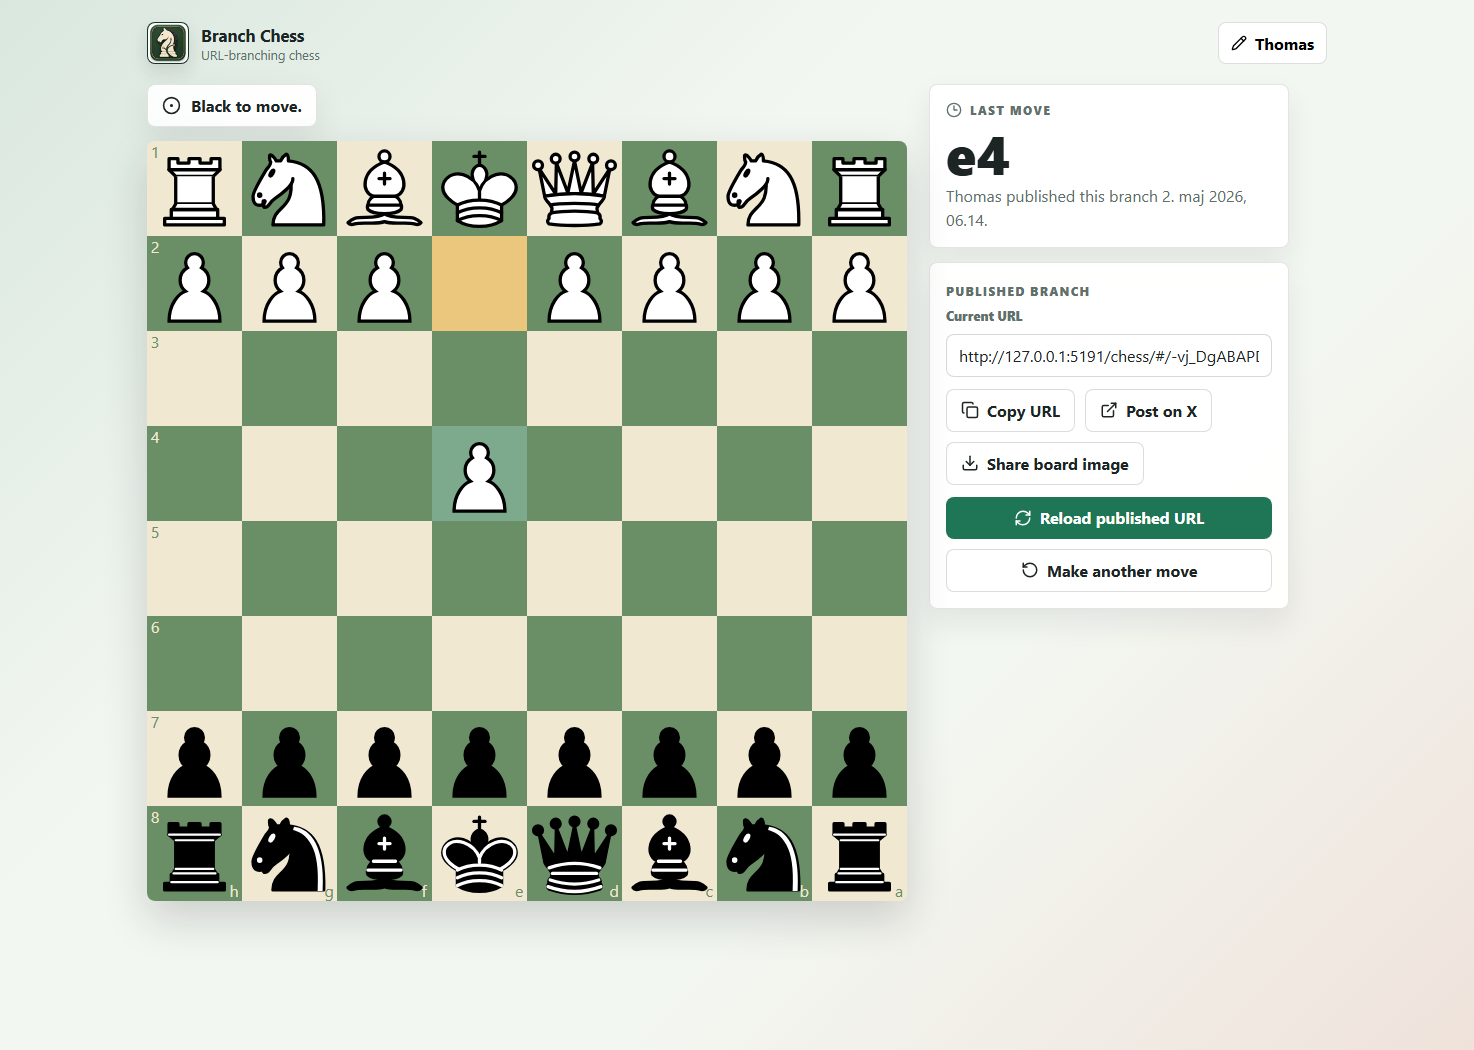
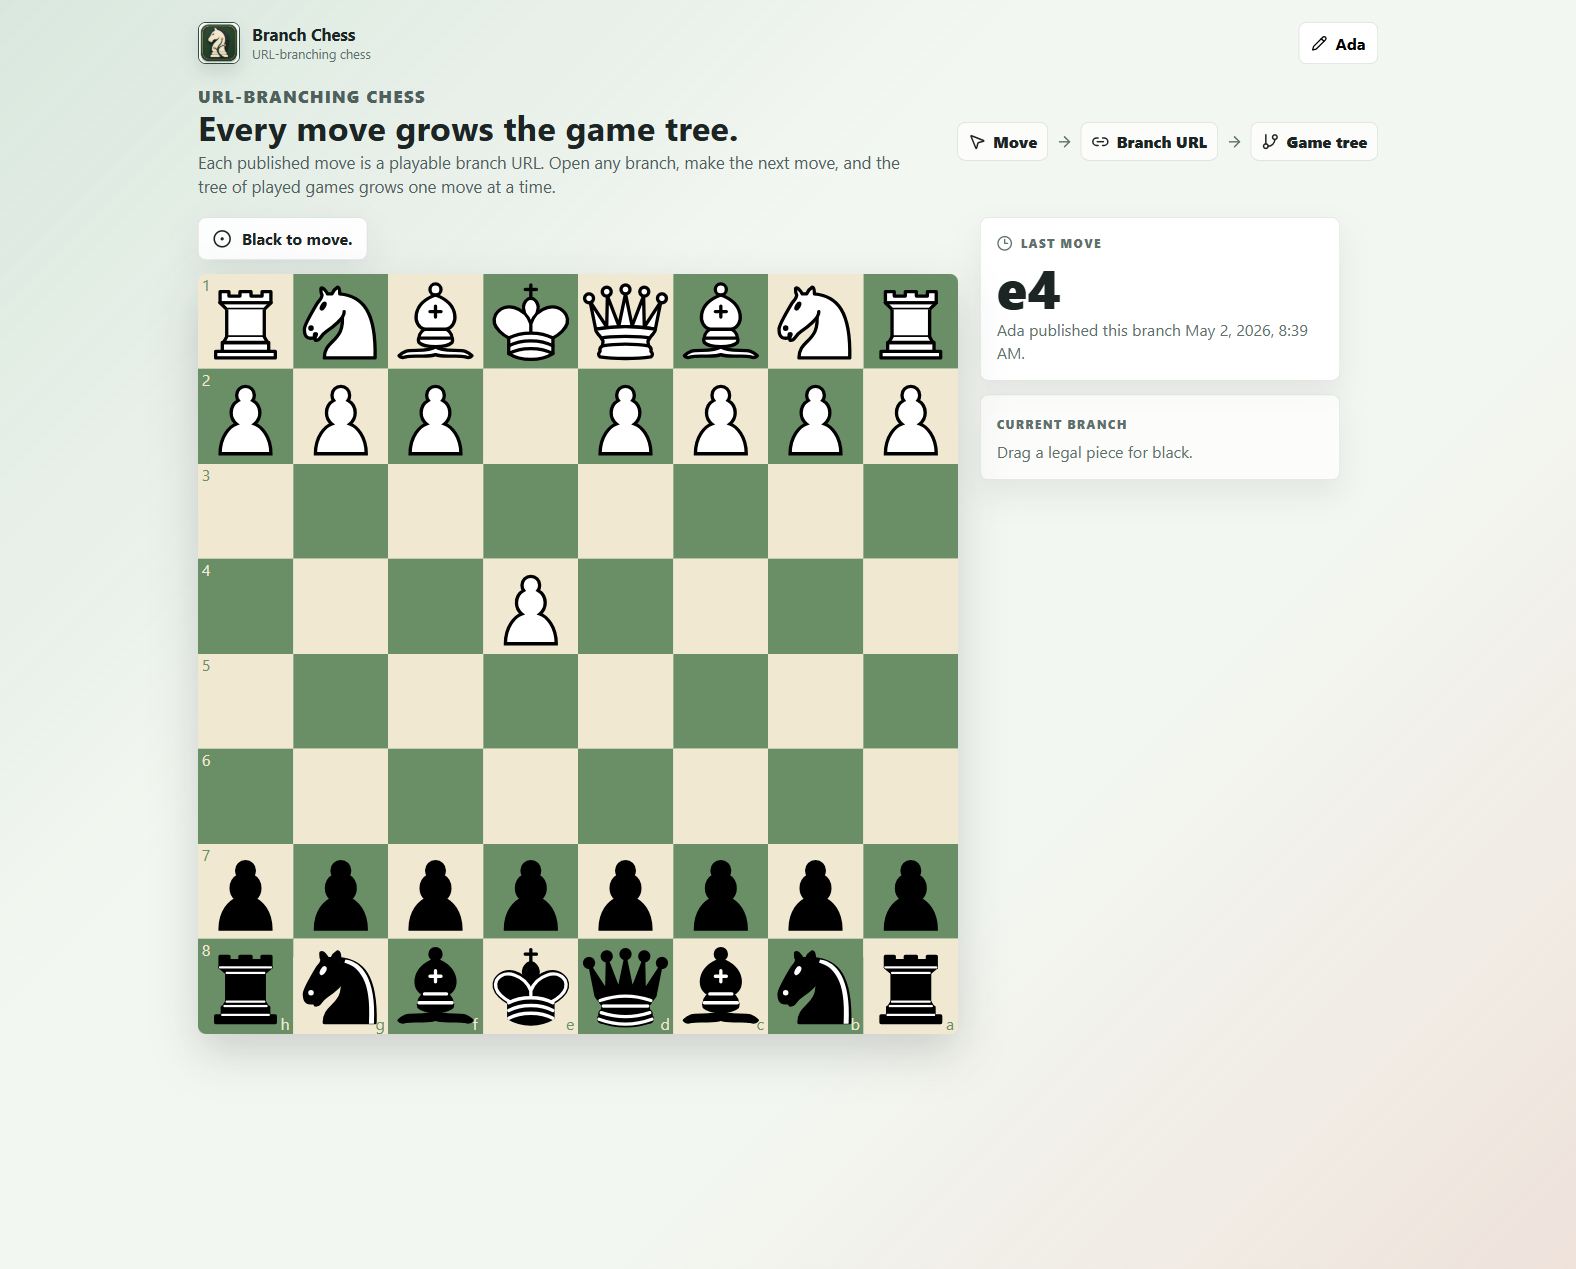
docs: improve README

Changed region(s): [[0.0936, 0.0, 0.8738, 0.8838], [0.8114, 0.0305, 0.905, 0.061]]

diff --git a/README.md b/README.md
@@ -4,37 +4,47 @@
 ![React](https://img.shields.io/badge/React-18-1f7660)
 ![TypeScript](https://img.shields.io/badge/TypeScript-5-1f7660)
 ![Vite](https://img.shields.io/badge/Vite-6-1f7660)
+![License](https://img.shields.io/badge/License-MIT-1f7660)
 
-Branch Chess is URL-branching chess: make a legal move, publish it, and the board becomes a compact share link. Anyone who opens the link can continue from that exact position and publish a new branch.
+Branch Chess is URL-branching chess. Make one legal move, publish it, and the current board becomes a compact share link. Anyone who opens that link can continue from the same position and publish the next branch.
 
-The app is static, backend-free, and designed for GitHub Pages at `/chess/`.
+It is a static React app with no backend, accounts, cookies, analytics, or server-side storage. The GitHub Pages build is configured for `/chess/`.
 
-![Branch Chess screenshot](docs/branch-chess-screenshot.png)
+<p align="center">
+  <img src="docs/branch-chess-screenshot.png" alt="Branch Chess showing a published e4 branch with black to move" width="960">
+</p>
 
-## Features
+## Live Demo
 
-- Legal chess play powered by `chess.js`.
-- Drag-and-drop and click-to-move board interaction.
-- Promotion picker, move confirmation, final-game display, and bad-link handling.
-- Compact binary Base64URL payloads in hash routes: `/#/<payload>`.
-- Canonical FEN internally, packed URL state externally.
-- Copyable branch URLs with clipboard fallback.
-- X composer links and generated board-image sharing/download.
-- No backend, accounts, cookies, analytics, or server-side persistence.
+[Open Branch Chess on GitHub Pages](https://thomasrohde.github.io/chess/)
 
-## Live Site
-
-Configured for GitHub Pages:
-
-```text
-https://thomasrohde.github.io/chess/
-```
-
-The app uses hash routing, so shared positions look like:
+Shared positions use hash routes, so a branch URL looks like this:
 
 ```text
 https://thomasrohde.github.io/chess/#/<packed-position>
 ```
+
+## Highlights
+
+- Legal chess rules powered by `chess.js`.
+- Drag-and-drop and click-to-move board interaction.
+- One-move publish flow: move, confirm, publish, share.
+- Compact Base64URL payloads stored entirely in the URL fragment.
+- Canonical FEN internally, packed binary state externally.
+- Promotion picker, check/checkmate/stalemate/draw status, and bad-link handling.
+- Copy URL, post-to-X composer links, and generated board image sharing/downloads.
+- Local nickname storage only; the nickname is included in links you publish.
+
+## How It Works
+
+1. Start from the initial board or open a branch URL.
+2. Choose a nickname.
+3. Make one legal move.
+4. Confirm and publish the move.
+5. Share the generated URL.
+6. The next player opens that branch and continues the game tree.
+
+Each published URL restores the playable position, side to move, castling rights, en-passant state, move counters, publisher nickname, timestamp, and latest move metadata.
 
 ## Quick Start
 
@@ -43,14 +53,19 @@ Requirements:
 - Node.js 22
 - npm
 
-Install and run locally:
+Install dependencies:
 
 ```bash
 npm ci
+```
+
+Start the development server:
+
+```bash
 npm run dev
 ```
 
-Open the local URL Vite prints, usually:
+Vite serves the app at a local `/chess/` base path, usually:
 
 ```text
 http://127.0.0.1:5173/chess/
@@ -60,73 +75,72 @@ http://127.0.0.1:5173/chess/
 
 ```bash
 npm run dev       # Start the local Vite server
-npm run test      # Run unit and component tests
+npm run test      # Run unit and component tests with Vitest
 npm run test:e2e  # Run Playwright end-to-end tests
 npm run build     # Type-check and build the static site
 npm run preview   # Preview the production build locally
 ```
 
-## How Branching Works
+If Playwright browsers are not installed on your machine yet:
 
-1. Start a fresh board or open a shared branch URL.
-2. Choose a nickname. It is stored locally and included in links you publish.
-3. Make one legal move.
-4. Confirm and publish the move.
-5. Share the generated URL. The next player opens that branch and continues.
-
-Each published URL contains the current chess position, side to move, castling rights, en-passant file, counters, last move metadata, nickname, timestamp, and payload version.
+```bash
+npx playwright install chromium
+```
 
 ## URL State
 
-Branch Chess keeps FEN as the internal semantic representation, then encodes the shared URL with a compact binary packer:
+Branch Chess keeps FEN as the semantic source of truth and packs shareable state into a binary payload before encoding it as Base64URL without padding. That keeps links short and safe inside URL fragments.
 
-- 3-bit payload version
-- side to move
-- castling rights
-- en-passant file
-- 64-bit occupancy map
-- extracted color and piece masks
-- halfmove and fullmove counters
-- created-at timestamp
-- publisher nickname
-- last move SAN and UCI
+The payload includes:
 
-The binary payload is encoded as Base64URL without padding, which keeps links compact and safe inside URL fragments.
+- Payload version marker
+- Side to move
+- Castling rights
+- En-passant file
+- 64-square occupancy and piece masks
+- Halfmove and fullmove counters
+- Created-at timestamp
+- Publisher nickname
+- Last move in SAN and UCI
+
+Malformed, oversized, or unsupported payloads are routed to a friendly bad-link screen instead of crashing the app.
 
 ## Project Structure
 
 ```text
 src/
-  components/      React UI for board, moves, nickname, and sharing
-  domain/          Chess rules, status helpers, nickname rules, URL state codec
-  pages/           Routed pages for play and bad-link states
+  app/             Router and app entry
+  components/      Board, move, nickname, and share UI
+  domain/          Chess rules, nickname rules, and URL state codecs
+  pages/           Play and bad-link pages
   persistence/     Persistence adapter boundary; v1 is local-only
   sharing/         Share URL, X composer URL, and board image generation
-  storage/         Local nickname storage with locked-down browser fallback
+  storage/         Local nickname storage
 tests/e2e/         Playwright browser coverage
+docs/              README assets
 .github/workflows  GitHub Pages deployment workflow
 ```
 
 ## Deployment
 
-GitHub Pages deployment is defined in `.github/workflows/pages.yml`.
+Deployment is handled by [`.github/workflows/pages.yml`](.github/workflows/pages.yml).
 
-The workflow runs on pushes to `master` and manual dispatch:
+On pushes to `master` and manual workflow dispatches, GitHub Actions:
 
-1. Install dependencies with `npm ci`.
-2. Install Playwright Chromium.
-3. Run unit/component tests.
-4. Run Playwright E2E tests.
-5. Build the static site.
-6. Upload and deploy `dist` with GitHub Pages.
+1. Installs dependencies with `npm ci`.
+2. Installs Playwright Chromium.
+3. Runs unit and component tests.
+4. Runs Playwright end-to-end tests.
+5. Builds the static site.
+6. Uploads `dist/` to GitHub Pages.
 
 In the repository settings, set Pages source to **GitHub Actions**.
 
 ## V1 Scope
 
-Branch Chess intentionally does not include a backend, user accounts, a global branch tree, move history, PGN export, AI, clocks, chat, or analytics.
+Branch Chess intentionally stays small: no backend, user accounts, global branch tree, PGN export, clocks, chat, AI opponent, or analytics.
 
-A shared link restores the current playable position and the latest published move. It does not restore full repetition history, so exact threefold-repetition claims are outside v1 scope.
+A link restores the current playable position and latest published move. It does not restore full move history, so exact threefold-repetition claims are outside the v1 scope.
 
 ## License
 
